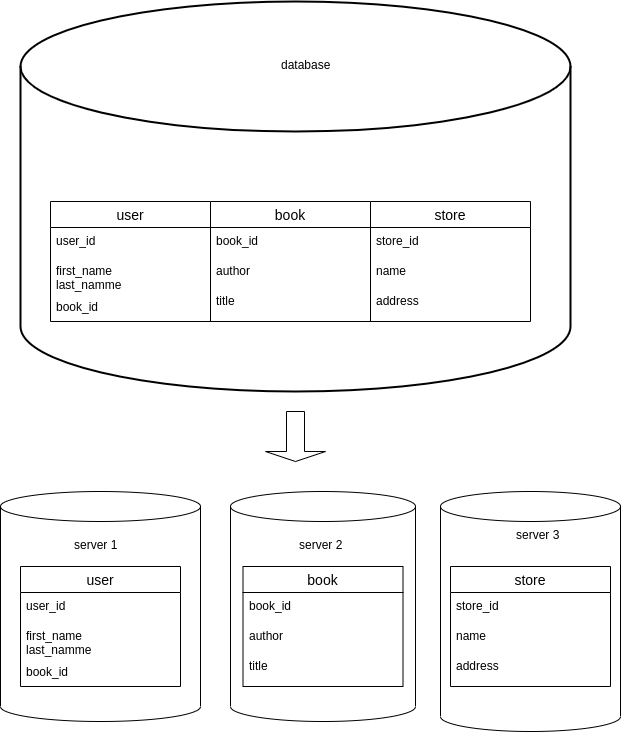
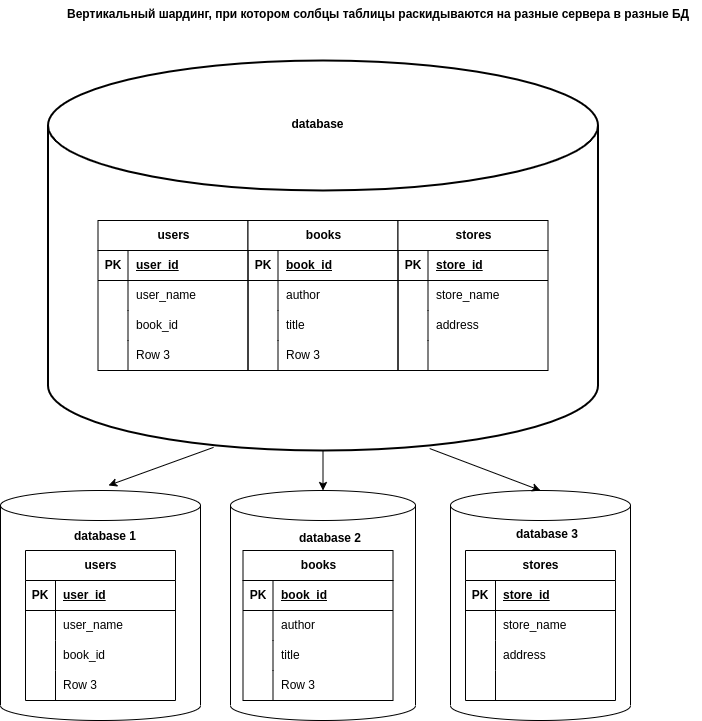
comlete

diff --git a/12.7-ReplDB-2/12-07.md b/12.7-ReplDB-2/12-07.md
@@ -22,9 +22,20 @@
 Опишите основные преимущества использования масштабирования методами:
 
 - активный master-сервер и пассивный репликационный slave-сервер; 
+* повышение отказоустойчивости: в случае недоступности мастера, его заменяет слэйв
+* снижение нагрузки на чтение
+* быстрая готовность слэйва заменить мастер при необходимости.
+
 - master-сервер и несколько slave-серверов;
+* по сути те же самые плюсы,что и выше, только из-за наличия нескольких слэйвов есть возможеость балансировки нагрузки между ними (если в задании нет опечатки,и не имелось в виду варианты мастер-слэйв и мастер-мастер)
+* возможность производить обслуживание слэйвов без простоя, т.к. всешда есть запасные слэйвы на случай отказа мастера
+
 - активный сервер со специальным механизмом репликации — distributed replicated block device (DRBD);
+* обеспечивает синхронное реплицирование мастера на слэйвы, 
+
+
 - SAN-кластер.
+* технология позволяет объединять несколько серверов в кластер при использовании одного хранилища, иметь централизованное управление и не нагружать сеть
 
 *Дайте ответ в свободной форме.*
 
@@ -40,6 +51,9 @@
 - магазины (столбцы произвольно). 
 
 Опишите принципы построения системы и их разграничение или разбивку между базами данных.
+
+![Вертикальный шардинг](1.png)
+![Горизонтальный шардинг](2.png)
 
 *Пришлите блоксхему, где и что будет располагаться. Опишите, в каких режимах будут работать сервера.* 
 
